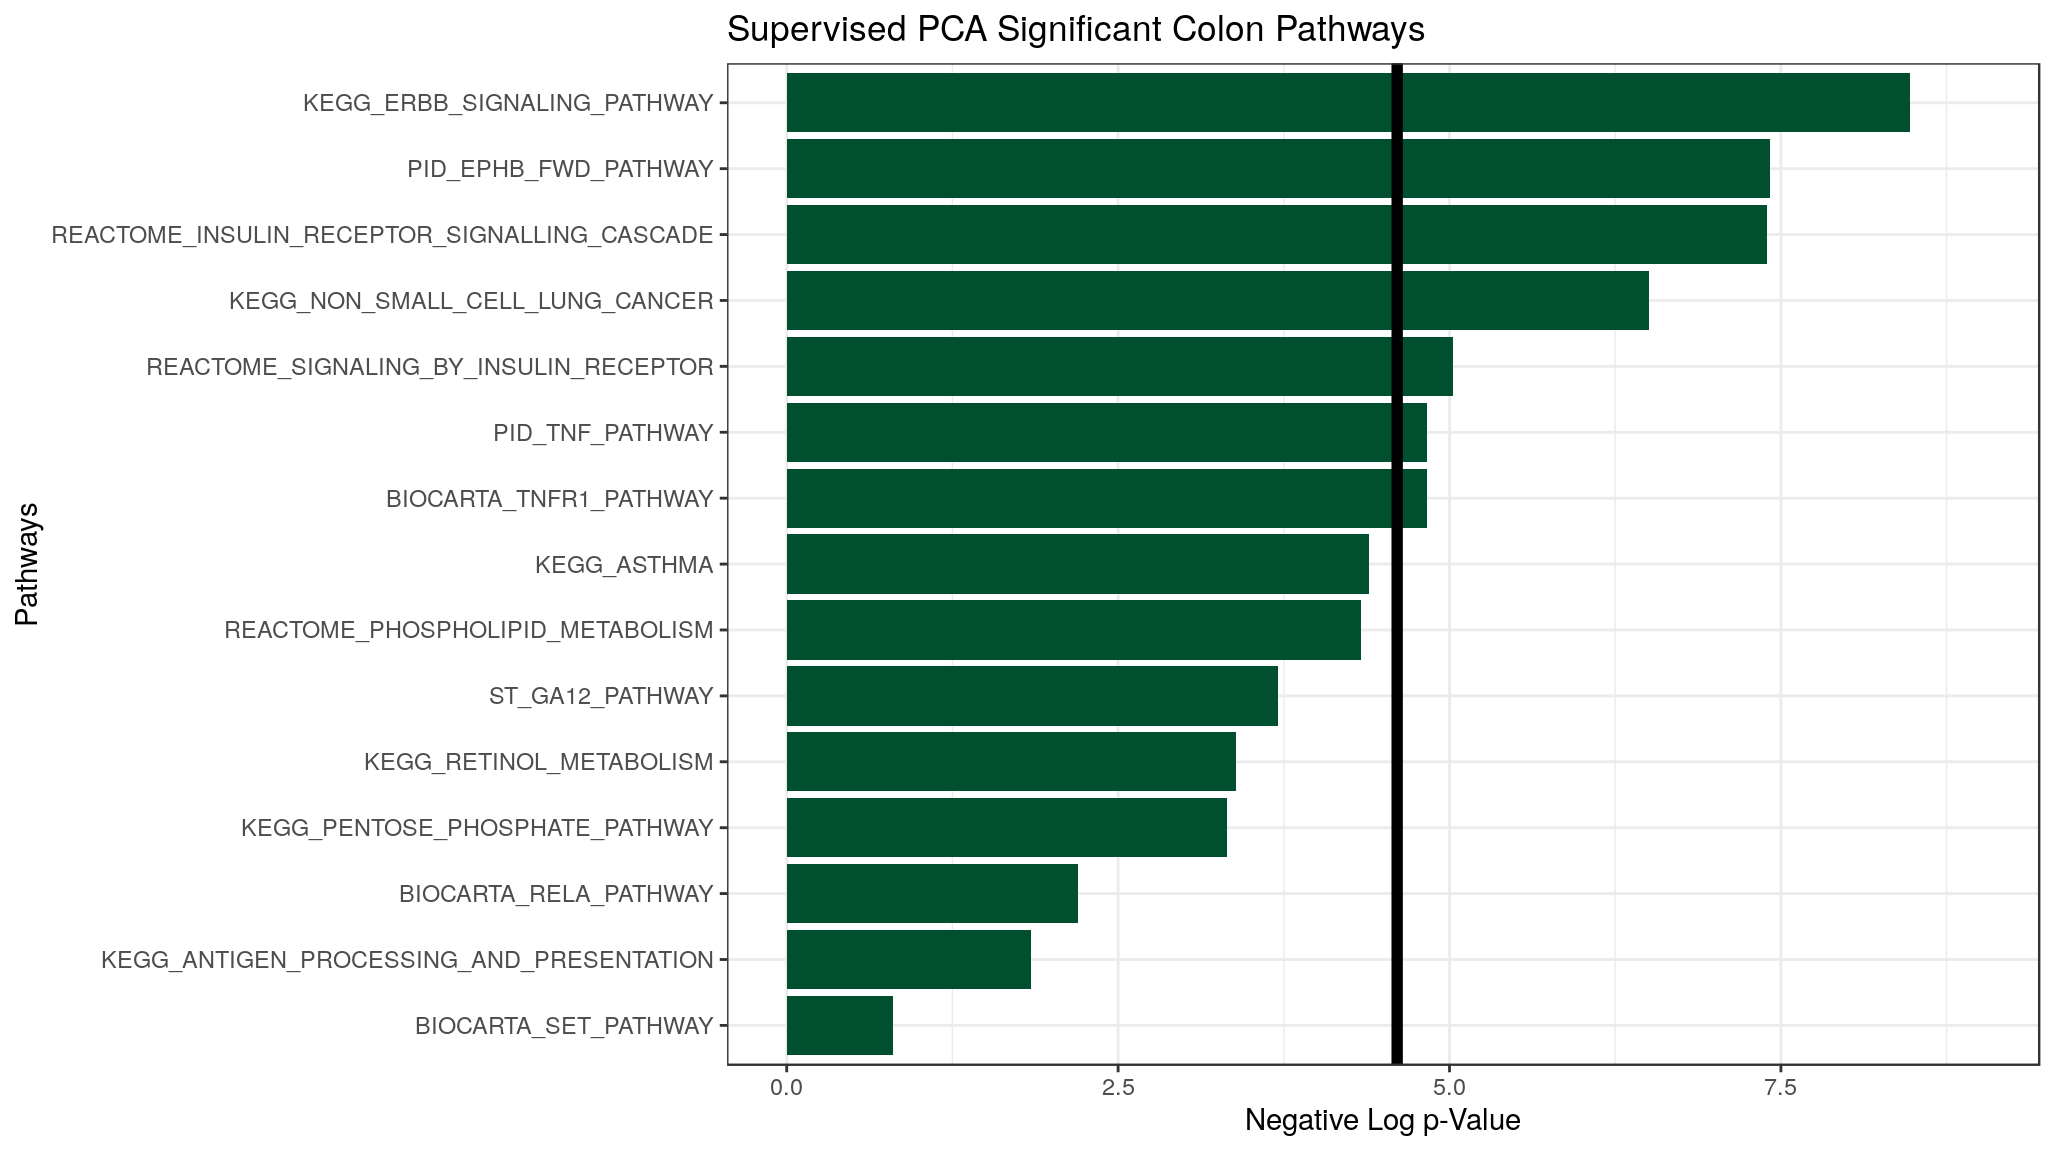
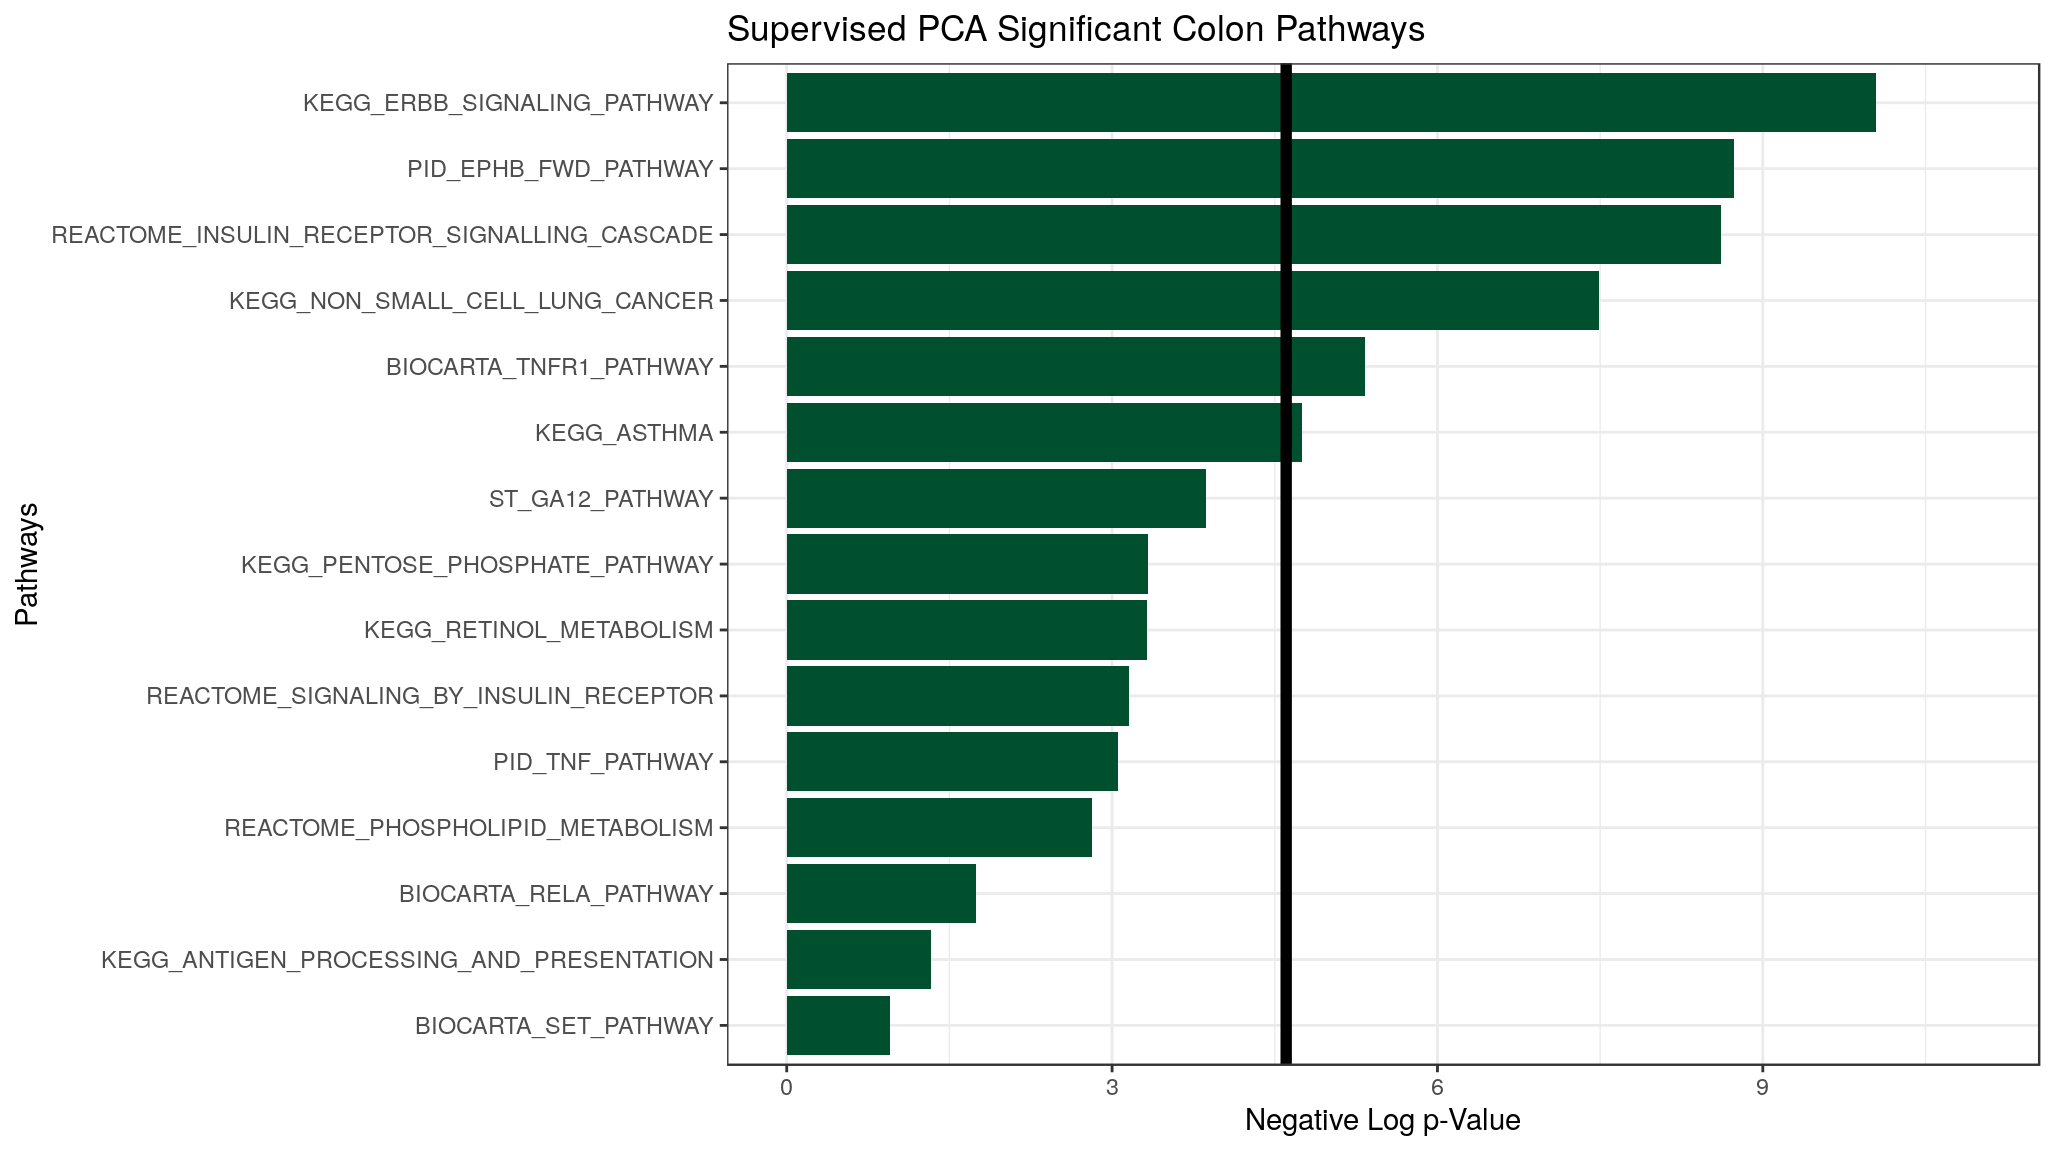
plot modify

diff --git a/docs/articles/Supplement1-Quickstart_Guide.html b/docs/articles/Supplement1-Quickstart_Guide.html
@@ -430,21 +430,21 @@ colon_OmicsSurv &lt;-<span class="st"> </span><span class="kw"><a href="../refer
 <span class="co">#&gt; # A tibble: 15 x 5</span>
 <span class="co">#&gt;    pathways    n_tested terms                                 rawp  FDR_BH</span>
 <span class="co">#&gt;  * &lt;chr&gt;          &lt;int&gt; &lt;chr&gt;                                &lt;dbl&gt;   &lt;dbl&gt;</span>
-<span class="co">#&gt;  1 pathway87         86 KEGG_ERBB_SIGNALING_PATHWAY        2.09e-4 0.00306</span>
-<span class="co">#&gt;  2 pathway491        40 PID_EPHB_FWD_PATHWAY               6.00e-4 0.00306</span>
-<span class="co">#&gt;  3 pathway757        83 REACTOME_INSULIN_RECEPTOR_SIGNALL… 6.12e-4 0.00306</span>
-<span class="co">#&gt;  4 pathway176        54 KEGG_NON_SMALL_CELL_LUNG_CANCER    1.49e-3 0.00560</span>
-<span class="co">#&gt;  5 pathway1211      104 REACTOME_SIGNALING_BY_INSULIN_REC… 6.54e-3 0.0172 </span>
-<span class="co">#&gt;  6 pathway536        44 PID_TNF_PATHWAY                    7.97e-3 0.0172 </span>
-<span class="co">#&gt;  7 pathway390        29 BIOCARTA_TNFR1_PATHWAY             8.01e-3 0.0172 </span>
-<span class="co">#&gt;  8 pathway177        26 KEGG_ASTHMA                        1.23e-2 0.0218 </span>
-<span class="co">#&gt;  9 pathway781       180 REACTOME_PHOSPHOLIPID_METABOLISM   1.31e-2 0.0218 </span>
-<span class="co">#&gt; 10 pathway413        23 ST_GA12_PATHWAY                    2.46e-2 0.0369 </span>
-<span class="co">#&gt; 11 pathway60         45 KEGG_RETINOL_METABOLISM            3.37e-2 0.0451 </span>
-<span class="co">#&gt; 12 pathway3          26 KEGG_PENTOSE_PHOSPHATE_PATHWAY     3.61e-2 0.0451 </span>
-<span class="co">#&gt; 13 pathway187        16 BIOCARTA_RELA_PATHWAY              1.11e-1 0.128  </span>
-<span class="co">#&gt; 14 pathway120        73 KEGG_ANTIGEN_PROCESSING_AND_PRESE… 1.59e-1 0.170  </span>
-<span class="co">#&gt; 15 pathway266        11 BIOCARTA_SET_PATHWAY               4.48e-1 0.448</span></code></pre></div>
+<span class="co">#&gt;  1 pathway87         86 KEGG_ERBB_SIGNALING_PATHWAY        4.34e-5 6.51e-4</span>
+<span class="co">#&gt;  2 pathway491        40 PID_EPHB_FWD_PATHWAY               1.61e-4 9.04e-4</span>
+<span class="co">#&gt;  3 pathway757        83 REACTOME_INSULIN_RECEPTOR_SIGNAL…  1.81e-4 9.04e-4</span>
+<span class="co">#&gt;  4 pathway176        54 KEGG_NON_SMALL_CELL_LUNG_CANCER    5.60e-4 2.10e-3</span>
+<span class="co">#&gt;  5 pathway390        29 BIOCARTA_TNFR1_PATHWAY             4.84e-3 1.45e-2</span>
+<span class="co">#&gt;  6 pathway177        26 KEGG_ASTHMA                        8.64e-3 2.16e-2</span>
+<span class="co">#&gt;  7 pathway413        23 ST_GA12_PATHWAY                    2.09e-2 4.48e-2</span>
+<span class="co">#&gt;  8 pathway3          26 KEGG_PENTOSE_PHOSPHATE_PATHWAY     3.56e-2 5.99e-2</span>
+<span class="co">#&gt;  9 pathway60         45 KEGG_RETINOL_METABOLISM            3.60e-2 5.99e-2</span>
+<span class="co">#&gt; 10 pathway1211      104 REACTOME_SIGNALING_BY_INSULIN_RE…  4.25e-2 6.37e-2</span>
+<span class="co">#&gt; 11 pathway536        44 PID_TNF_PATHWAY                    4.74e-2 6.46e-2</span>
+<span class="co">#&gt; 12 pathway781       180 REACTOME_PHOSPHOLIPID_METABOLISM   6.01e-2 7.52e-2</span>
+<span class="co">#&gt; 13 pathway187        16 BIOCARTA_RELA_PATHWAY              1.75e-1 2.02e-1</span>
+<span class="co">#&gt; 14 pathway120        73 KEGG_ANTIGEN_PROCESSING_AND_PRES…  2.64e-1 2.83e-1</span>
+<span class="co">#&gt; 15 pathway266        11 BIOCARTA_SET_PATHWAY               3.86e-1 3.86e-1</span></code></pre></div>
 </div>
 <div id="graph-of-top-pathways" class="section level2">
 <h2 class="hasAnchor">
@@ -467,18 +467,18 @@ graphMax &lt;-<span class="st"> </span><span class="kw"><a href="https://www.rdo
 
 colonOutGather_df
 <span class="co">#&gt; # A tibble: 30 x 4</span>
-<span class="co">#&gt;    terms                                        variable    value score</span>
-<span class="co">#&gt;    &lt;chr&gt;                                        &lt;fct&gt;       &lt;dbl&gt; &lt;dbl&gt;</span>
-<span class="co">#&gt;  1 KEGG_ERBB_SIGNALING_PATHWAY                  None     0.000209  8.47</span>
-<span class="co">#&gt;  2 PID_EPHB_FWD_PATHWAY                         None     0.000600  7.42</span>
-<span class="co">#&gt;  3 REACTOME_INSULIN_RECEPTOR_SIGNALLING_CASCADE None     0.000612  7.40</span>
-<span class="co">#&gt;  4 KEGG_NON_SMALL_CELL_LUNG_CANCER              None     0.00149   6.51</span>
-<span class="co">#&gt;  5 REACTOME_SIGNALING_BY_INSULIN_RECEPTOR       None     0.00654   5.03</span>
-<span class="co">#&gt;  6 PID_TNF_PATHWAY                              None     0.00797   4.83</span>
-<span class="co">#&gt;  7 BIOCARTA_TNFR1_PATHWAY                       None     0.00801   4.83</span>
-<span class="co">#&gt;  8 KEGG_ASTHMA                                  None     0.0123    4.40</span>
-<span class="co">#&gt;  9 REACTOME_PHOSPHOLIPID_METABOLISM             None     0.0131    4.33</span>
-<span class="co">#&gt; 10 ST_GA12_PATHWAY                              None     0.0246    3.71</span>
+<span class="co">#&gt;    terms                                        variable     value score</span>
+<span class="co">#&gt;    &lt;chr&gt;                                        &lt;fct&gt;        &lt;dbl&gt; &lt;dbl&gt;</span>
+<span class="co">#&gt;  1 KEGG_ERBB_SIGNALING_PATHWAY                  None     0.0000434 10.0 </span>
+<span class="co">#&gt;  2 PID_EPHB_FWD_PATHWAY                         None     0.000161   8.74</span>
+<span class="co">#&gt;  3 REACTOME_INSULIN_RECEPTOR_SIGNALLING_CASCADE None     0.000181   8.62</span>
+<span class="co">#&gt;  4 KEGG_NON_SMALL_CELL_LUNG_CANCER              None     0.000560   7.49</span>
+<span class="co">#&gt;  5 BIOCARTA_TNFR1_PATHWAY                       None     0.00484    5.33</span>
+<span class="co">#&gt;  6 KEGG_ASTHMA                                  None     0.00864    4.75</span>
+<span class="co">#&gt;  7 ST_GA12_PATHWAY                              None     0.0209     3.87</span>
+<span class="co">#&gt;  8 KEGG_PENTOSE_PHOSPHATE_PATHWAY               None     0.0356     3.34</span>
+<span class="co">#&gt;  9 KEGG_RETINOL_METABOLISM                      None     0.0360     3.33</span>
+<span class="co">#&gt; 10 REACTOME_SIGNALING_BY_INSULIN_RECEPTOR       None     0.0425     3.16</span>
 <span class="co">#&gt; # ... with 20 more rows</span></code></pre></div>
 </div>
 <div id="graph-pathway-ranks" class="section level3">
